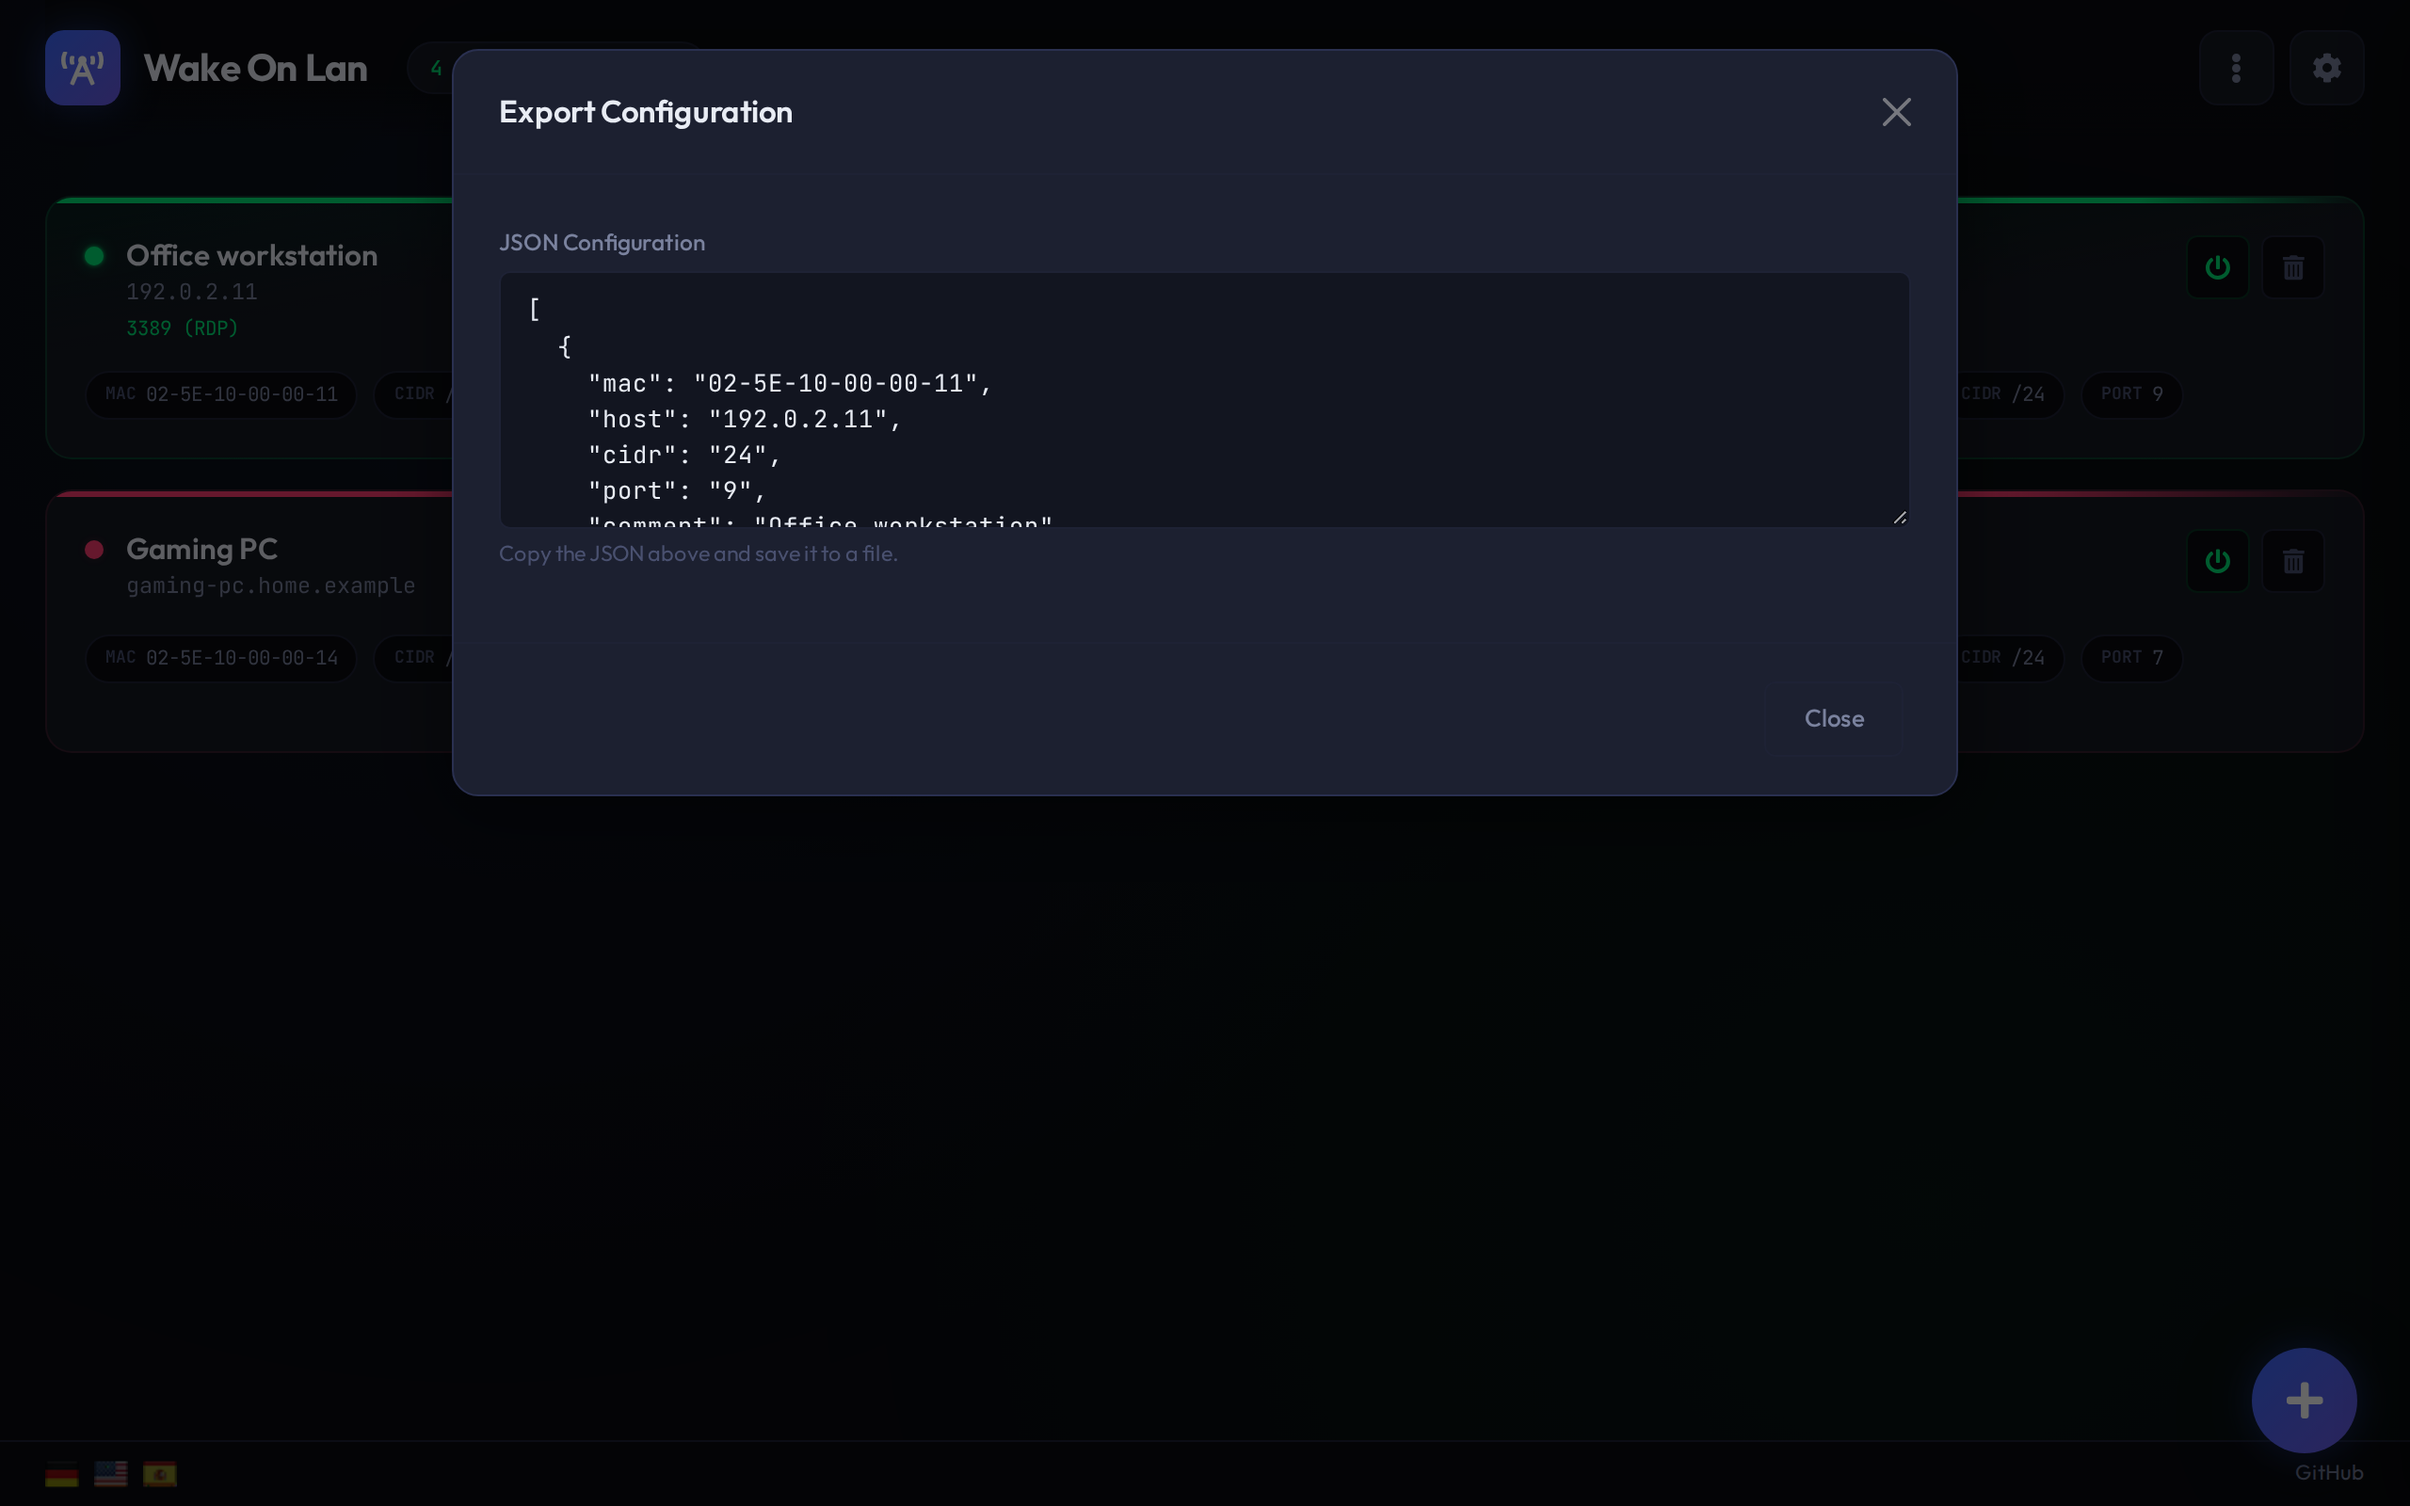
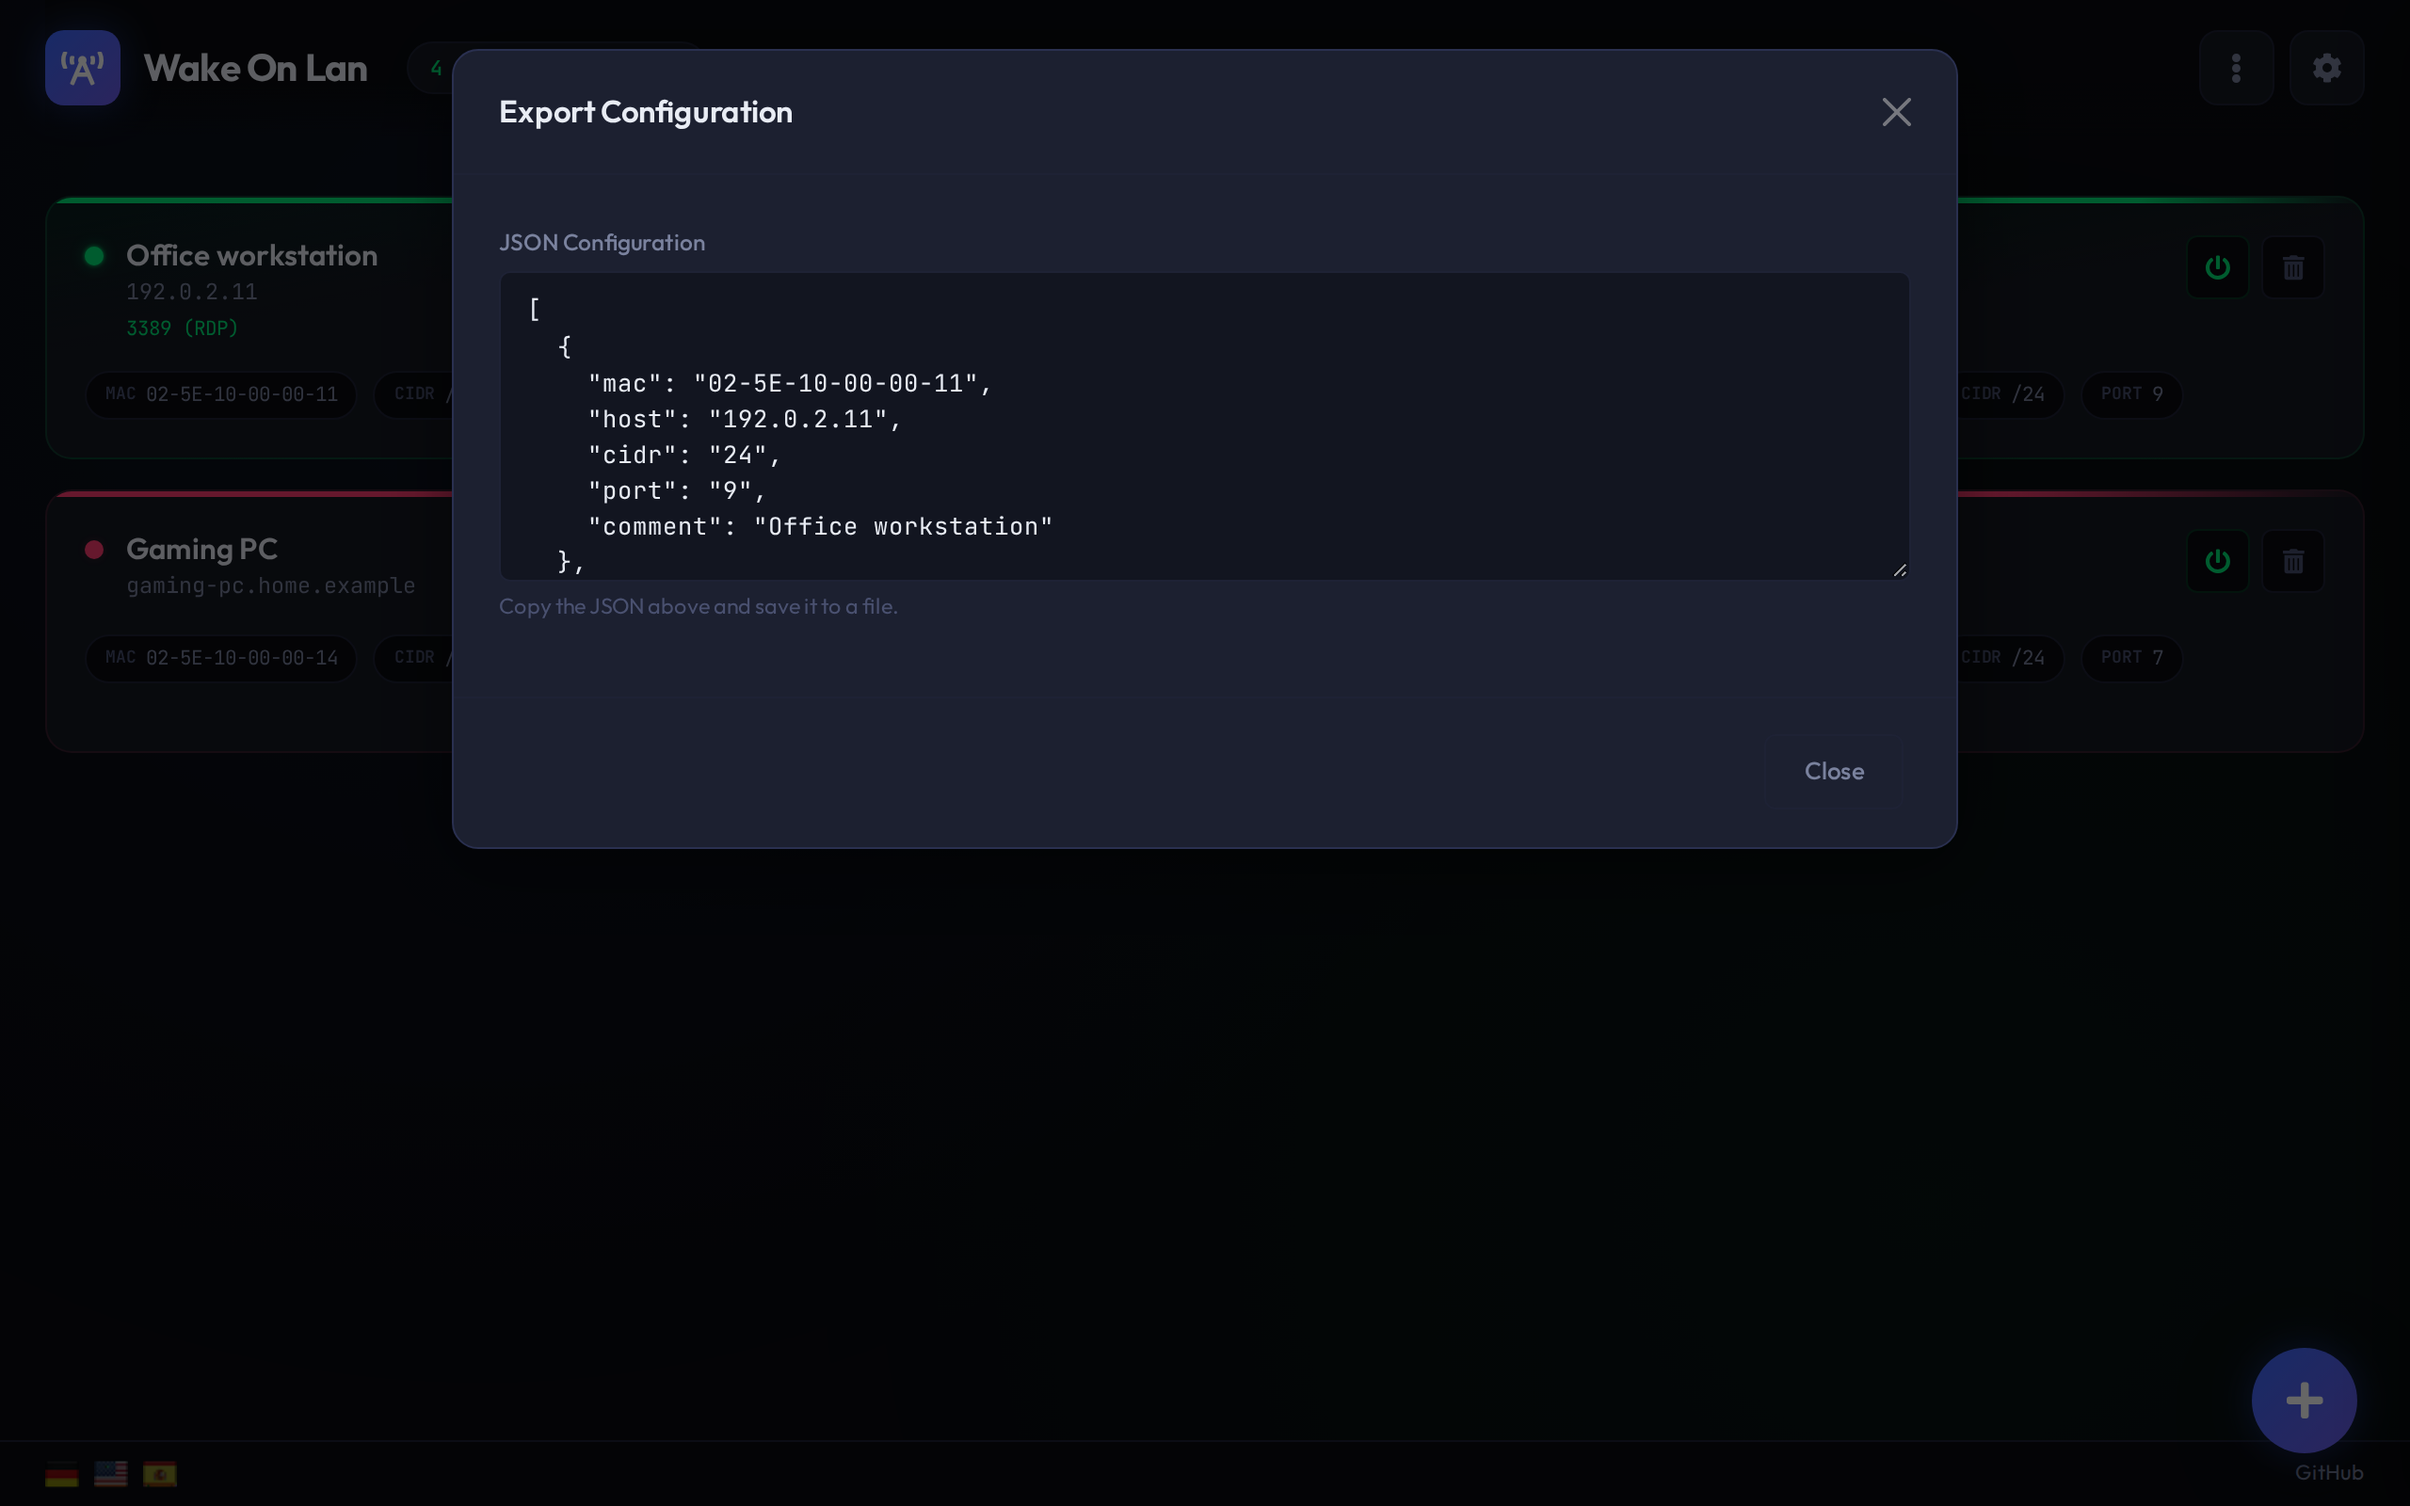
Tighten the docs tour script, add a .dockerignore, uncut the JSON shots
The tour script now accepts only *_docs/*_e2e names and removes only the
container and image it created, creates $ARTIFACTS so the container log
survives a failed start, and .dockerignore keeps e2e/node_modules, .git,
docs/ and volume/ out of the build context. The export and import shots
size their textarea to whole lines, so no JSON line is cut in half.

Changed region(s): [[0.1875, 0.4688, 0.8125, 0.5625], [0.2188, 0.3438, 0.375, 0.4062]]

diff --git a/e2e/docs/tour.spec.ts b/e2e/docs/tour.spec.ts
@@ -2,7 +2,7 @@ import { mkdirSync, readFileSync } from 'node:fs'
 import path from 'node:path'
 import { fileURLToPath } from 'node:url'
 
-import { expect, test, type BrowserContext, type Page, type Route } from '@playwright/test'
+import { expect, test, type BrowserContext, type Locator, type Page, type Route } from '@playwright/test'
 
 import { HOSTS, NEW_HOST, seed, type Host } from './seed'
 
@@ -177,6 +177,21 @@ async function shoot(page: Page, name: string, opts: { clipTo?: string; toast?: 
 
 const card = (page: Page, comment: string) => page.locator('#hostGrid .wol-card', { hasText: comment })
 
+/** Resize a textarea (as its drag handle would) to its first `lines` lines,
+ * or all of them, and scroll it to the top: no line cut in half. */
+async function fitLines(textarea: Locator, lines?: number) {
+  await textarea.evaluate((el: HTMLTextAreaElement, max) => {
+    const cs = getComputedStyle(el)
+    const lh = parseFloat(cs.lineHeight)
+    const [top, bottom] = [parseFloat(cs.paddingTop), parseFloat(cs.paddingBottom)]
+    const total = Math.round((el.scrollHeight - top - bottom) / lh)
+    const n = Math.min(max ?? total, total)
+    const borders = el.offsetHeight - el.clientHeight
+    el.style.height = `${borders + top + n * lh + (n === total ? bottom : 0)}px`
+    el.scrollTop = 0
+  }, lines ?? null)
+}
+
 async function openOptions(page: Page) {
   await page.locator('#dropdownOptions').click()
   await expect(page.locator('.dropdown-menu.show')).toBeVisible()
@@ -313,6 +328,8 @@ test('options: export configuration', async ({ page, baseURL }) => {
   await page.locator('#exportConfig').click()
   await expect(page.locator('#exportModal')).toBeVisible()
   await expect(page.locator('#exportJson')).toHaveValue(/"Office workstation"/)
+  // The first host in full.
+  await fitLines(page.locator('#exportJson'), 8)
   await shoot(page, 'config-export')
 })
 
@@ -324,6 +341,7 @@ test('options: import configuration', async ({ page, baseURL }) => {
   await expect(modal).toBeVisible()
   const { up: _up, ...printer } = NEW_HOST
   await modal.locator('#importJson').fill(JSON.stringify([printer], null, 2))
+  await fitLines(modal.locator('#importJson'))
   await shoot(page, 'config-import')
 })
 

diff --git a/CLAUDE.md b/CLAUDE.md
@@ -17,8 +17,8 @@
   docs tour uses `docker build` + `docker run` on the default bridge instead.
 - Docs tour names and ports: container + image `wake-on-lan_plus_docs`
   (`COMPOSE_PROJECT_NAME` overrides), `127.0.0.1:${PORT_BASE:-25500}`; port block
-  25500-25509. The script refuses `wake-on-lan_plus` (a live install's container name) and the
-  fleet's live names. On the fleet VM, never touch `phytotron-*` or `vib-*` containers.
+  25500-25509. The script accepts only names ending in `_docs`/`_e2e` and removes only the
+  container and image it created. On the fleet VM, never touch `phytotron-*` or `vib-*` containers.
 - The tour mocks HOST.CHECK (the demo hosts do not exist) and serves every CDN file from
   `e2e/node_modules`. A request it cannot serve locally fails the test. Bumping a CDN
   version in `index.php` (or the Google Fonts `@import` in `assets/style.css`) needs:
